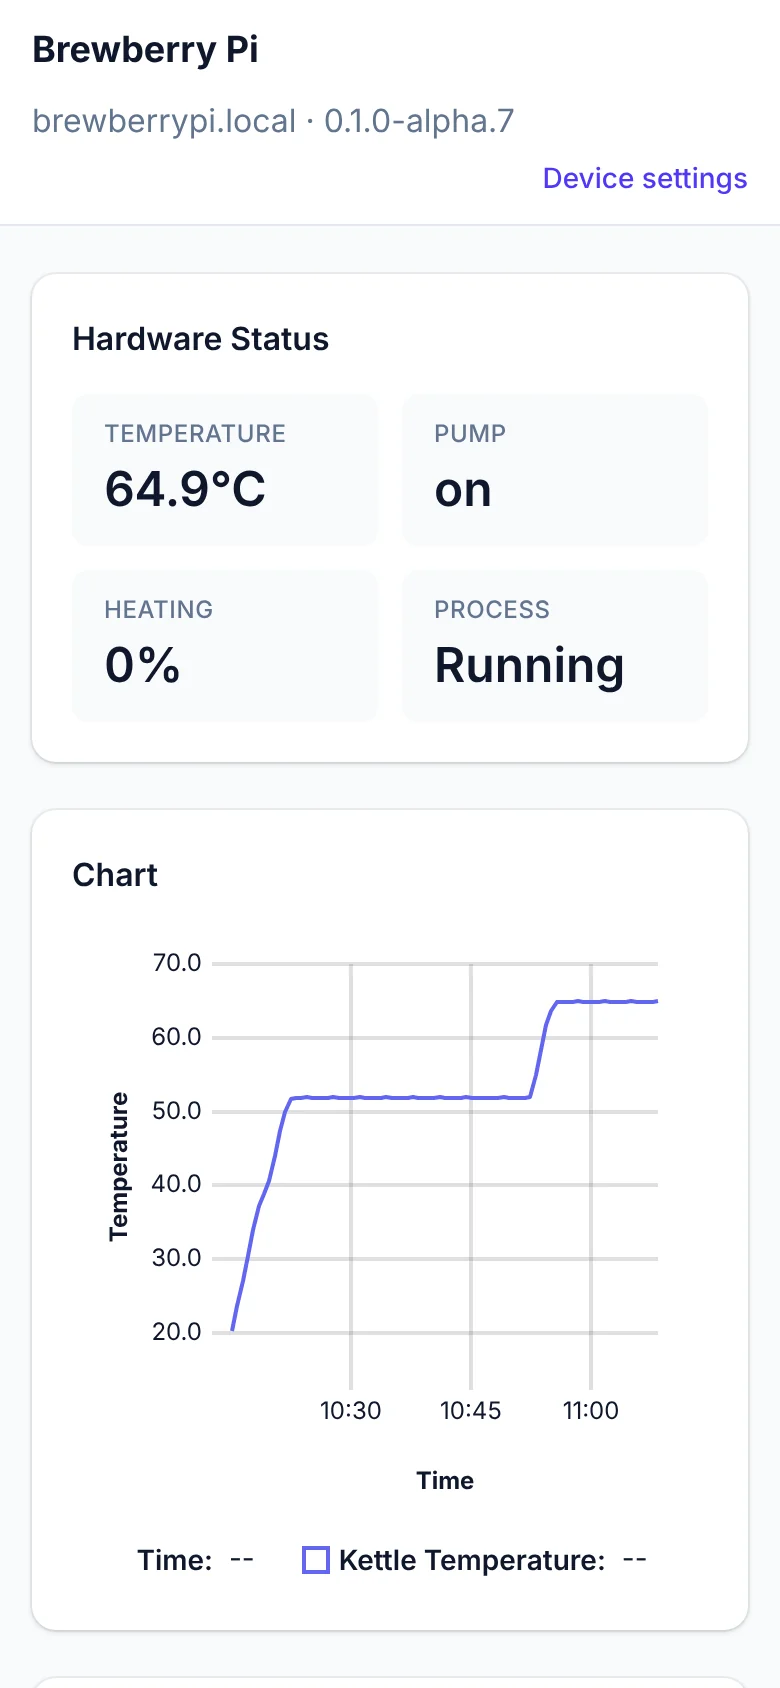
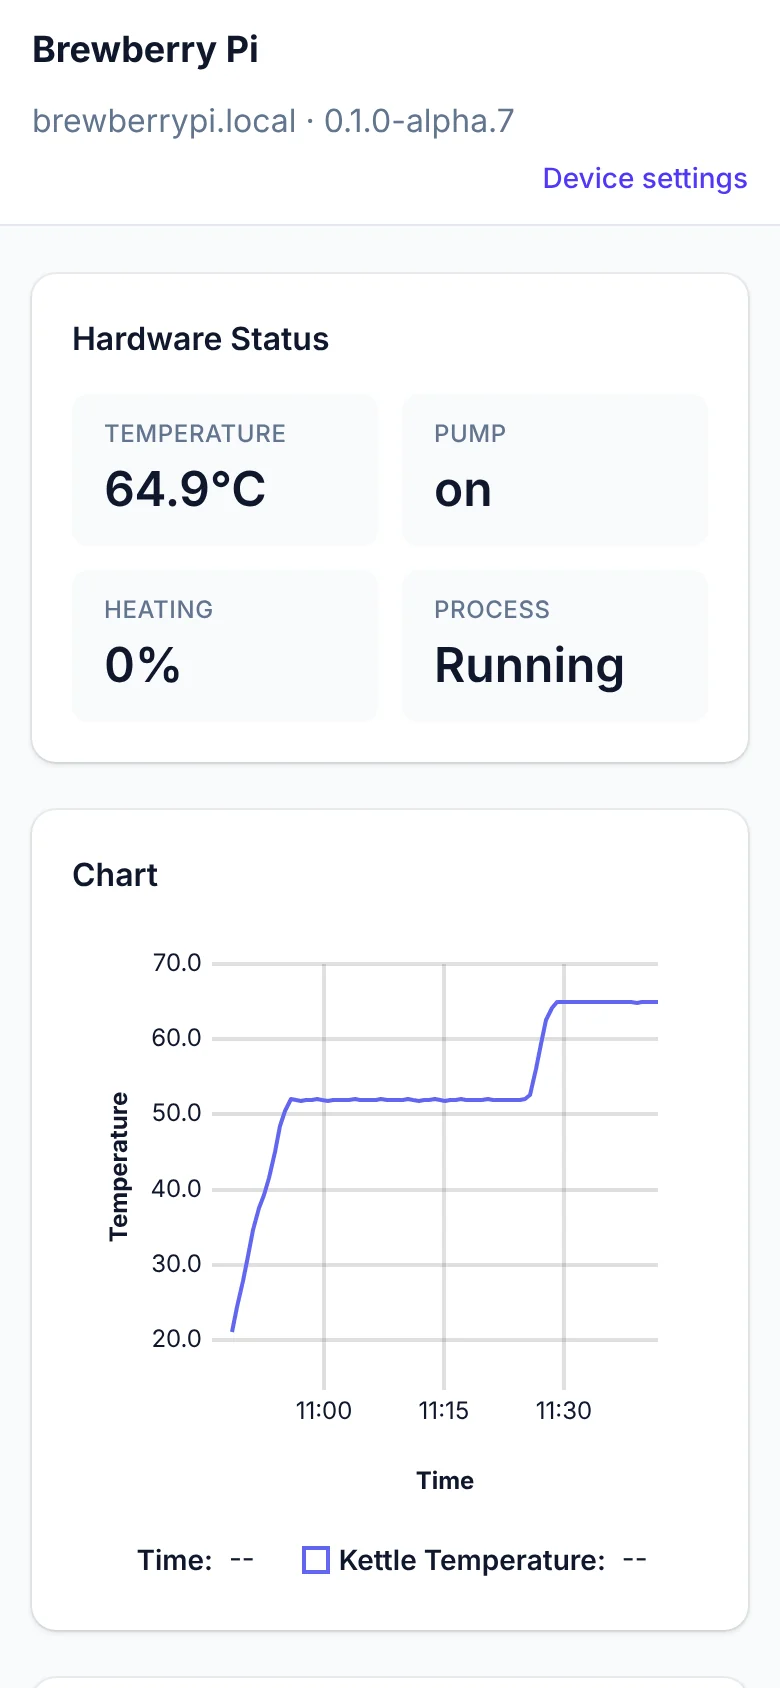
Website: links to the GitHub docs, real screenshots in Mash controlling
Documentation links where they help: each software feature card links to the
relevant spec page or manual section (temperature control, goal types, safety
requirements, recipe format, adding recipes), the OS cards to the flashing
guide and the user manual's Wi-Fi, app version, configuration and overview
sections, the source card to the user manual, app specification and
developer guide; the case page to its specification, print checks and FDM
design rules; the components page to the hardware test protocol.

Mash controlling cards now show real app screenshots: the chart, the iodine
question and the hardware status after a stop (all off). capture_screens.mjs
takes them along with the others.

Claude-Session: https://claude.ai/code/session_01CFGdCWnQRLXmkcSybAmDGC

Changed region(s): [[0.1846, 0.5853, 0.8308, 0.8626]]

diff --git a/site/main.js b/site/main.js
@@ -24,7 +24,7 @@ if (hero) sectionObserver.observe(hero); // no link: clears the highlight at the
 
 // ---------- Features ----------
 // To add a feature, add an entry. group: the section it appears in ("mash" or "recipe"). size: "wide" spans two columns on large screens. art: an optional
-// illustration (see ART). size "full" spans the whole row. soon: the muted "more to come" card.
+// illustration (see ART). size "full" spans the whole row. doc: [link text, URL] to the documentation. soon: the muted "more to come" card.
 
 const ICONS = {
   list: '<path d="M9 6h11M9 12h11M9 18h11"/><circle cx="4.5" cy="6" r="1"/><circle cx="4.5" cy="12" r="1"/><circle cx="4.5" cy="18" r="1"/>',
@@ -38,22 +38,23 @@ const ICONS = {
 const ART = {
   process: '<div class="mini-shot"><img src="img/app-process-light.webp" width="1464" height="1850" loading="lazy" decoding="async" alt="The app working through the step mash BENIWEISS: the done steps, the active rest with its time left, and the steps still to come"></div>',
   json: '<figure class="mini-file"><figcaption>recipes/BENIWEISS.json</figcaption><pre>{\n  <b>"name"</b>: <i>"München 12.6 - SUD2:BENIWEISS"</i>,\n  <b>"goals"</b>: [\n    { <b>"type"</b>: <i>"PourInBrewingWater"</i> },\n    { <b>"type"</b>: <i>"HeatUp"</i>, <b>"temperature"</b>: <u>40</u> },\n    { <b>"type"</b>: <i>"MashIn"</i> },\n    { <b>"type"</b>: <i>"HeatUp"</i>, <b>"temperature"</b>: <u>52</u> },\n    { <b>"type"</b>: <i>"Rest"</i>, <b>"temperature"</b>: <u>52</u>, <b>"minutes"</b>: <u>30</u>,\n      <b>"name"</b>: <i>"Eiweißrast"</i> },\n    <s>…</s>\n    { <b>"type"</b>: <i>"IodineTest"</i>, <b>"temperature"</b>: <u>73</u>, <b>"minutes"</b>: <u>10</u> },\n    { <b>"type"</b>: <i>"HeatUp"</i>, <b>"temperature"</b>: <u>78</u> }\n  ]\n}</pre></figure>',
-  curve: '<svg class="mini-curve" viewBox="0 0 300 90" preserveAspectRatio="none" aria-hidden="true"><path class="target" d="M0 22H300"/><path d="M0 84C50 80 80 50 110 30S150 22 170 22H300"/></svg>',
-  ask: '<div class="mini-ask">Iodine test successfull?<div><span>Yes</span><span>No</span></div></div>',
+  chart: '<div class="mini-shot mini-shot--fit"><img src="img/app-chart-light.webp" width="1464" height="627" loading="lazy" decoding="async" alt="The app’s chart: the kettle temperature since the start, with each ramp and rest of the step mash"></div>',
+  question: '<div class="mini-shot mini-shot--fit"><img src="img/app-question-light.webp" width="1392" height="302" loading="lazy" decoding="async" alt="The app asking: Iodine test successfull? with the answers Yes and No"></div>',
+  stopped: '<div class="mini-shot mini-shot--fit"><img src="img/app-stopped-light.webp" width="1464" height="246" loading="lazy" decoding="async" alt="The app’s hardware status after a stop: pump off, heating 0 %, process stopped"></div>',
 };
 
 const FEATURES = [
-  { group: "mash", icon: "thermo", title: "Temperature control", size: "wide", art: "curve",
+  { group: "mash", icon: "thermo", title: "Temperature control", doc: ["How the control works", "https://github.com/tinkerius/brewberrypi-app/blob/main/docs/specification/05-temperature-control.md"], size: "wide", art: "chart",
     text: "Full power to heat up, half power close to the target, then it holds each rest while the pump keeps the mash moving. A chart shows the kettle temperature since the start, so you see each ramp and rest as it happens." },
-  { group: "mash", icon: "bell", title: "It guides you through the brew", size: "wide", art: "ask",
+  { group: "mash", icon: "bell", title: "It guides you through the brew", doc: ["The steps it knows", "https://github.com/tinkerius/brewberrypi-app/blob/main/docs/specification/04-goal-types.md"], size: "wide", art: "question",
     text: "BrewberryPi heats, holds the rests and runs the pump on its own, and tells you when it's your turn: pour in the water, mash in, do the iodine test. Confirm on any device, and it carries on. A buzzer reminds you until you do." },
-  { group: "mash", icon: "shield", title: "Safe by design", size: "wide",
+  { group: "mash", icon: "shield", title: "Safe by design", doc: ["Safety requirements", "https://github.com/tinkerius/brewberrypi-app/blob/main/docs/specification/10-non-functional-requirements.md"], size: "wide", art: "stopped",
     text: "The heater is off whenever it isn't actively controlling temperature. All outputs go off at start-up and on every stop, crash or hang, backed by the systemd and hardware watchdogs." },
   { group: "mash", icon: "spark", title: "More to come", size: "wide", soon: true,
     text: "The feature list grows with the project. Have an idea? Open an issue on GitHub." },
-  { group: "recipe", icon: "list", title: "Mashing process as step lists", size: "wide", art: "process",
+  { group: "recipe", icon: "list", title: "Mashing process as step lists", doc: ["Recipe format", "https://github.com/tinkerius/brewberrypi-app/blob/main/docs/specification/07-recipes.md"], size: "wide", art: "process",
     text: "Write your mash schedule once as a list of steps: the target temperature of each heat-up, the temperature and minutes of each rest, the extra minutes after an iodine test that isn't done yet, and the boil time. Give your rests their own names. BrewberryPi works through it step by step, like this step mash for a wheat beer." },
-  { group: "recipe", icon: "file", title: "Easy mash process creation", size: "wide", art: "json",
+  { group: "recipe", icon: "file", title: "Easy mash process creation", doc: ["Adding recipes", "https://github.com/tinkerius/brewberrypi-os/blob/main/docs/user-manual.md#in-the-file-share"], size: "wide", art: "json",
     text: "A recipe is a small JSON file: list the steps with their temperatures and minutes. Drop it into the recipes folder on the Pi's network share, and it shows up in the app within seconds." },
 ];
 
@@ -67,9 +68,15 @@ function renderFeatures() {
       card.className = `feature card reveal${f.size ? ` feature--${f.size}` : ""}${f.soon ? " feature--soon" : ""}`;
       card.style.setProperty("--d", `${(i % 4) * 0.06}s`);
       card.innerHTML = `<span class="feature__icon"><svg viewBox="0 0 24 24" aria-hidden="true">${ICONS[f.icon]}</svg></span>
-        <h3></h3><p></p>${f.art ? `<div class="feature__art">${ART[f.art]}</div>` : ""}`;
+        <h3></h3><p></p>${f.art ? `<div class="feature__art">${ART[f.art]}</div>` : ""}${f.doc ? '<a class="link feature__doc"></a>' : ""}`;
       card.querySelector("h3").textContent = f.title;
       card.querySelector("p").textContent = f.text;
+      if (f.doc) {
+        const link = card.querySelector(".feature__doc");
+        link.href = f.doc[1];
+        link.innerHTML = '<span></span> <span aria-hidden="true">→</span>';
+        link.firstChild.textContent = f.doc[0];
+      }
       grid.append(card);
     });
   }

diff --git a/site/software.html b/site/software.html
@@ -131,11 +131,11 @@
         <div class="software-facts">
           <div class="software-fact card reveal">
             <span class="feature__icon"><svg viewBox="0 0 24 24" aria-hidden="true"><path d="M4 6.5h16v11H4z"/><path d="M8 3.5v3M16 3.5v3M8 12h8"/></svg></span>
-            <div><h3>Flash and brew</h3><p>Write the image with Raspberry Pi Imager. The app starts on its own at every boot.</p></div>
+            <div><h3>Flash and brew</h3><p>Write the image with Raspberry Pi Imager. The app starts on its own at every boot.</p><a class="link fact__doc" href="https://github.com/tinkerius/brewberrypi-os/blob/main/docs/flashing.md">Flashing guide <span aria-hidden="true">→</span></a></div>
           </div>
           <div class="software-fact card reveal">
             <span class="feature__icon"><svg viewBox="0 0 24 24" aria-hidden="true"><path d="M2.5 9a14 14 0 0 1 19 0M5.8 12.6a9 9 0 0 1 12.4 0M9.2 16.1a4 4 0 0 1 5.6 0"/><circle cx="12" cy="19.3" r=".9"/></svg></span>
-            <div><h3>Wi-Fi hotspot</h3><p>No home network found? The Pi opens its own hotspot, and your phone lands on the Wi-Fi setup page.</p></div>
+            <div><h3>Wi-Fi hotspot</h3><p>No home network found? The Pi opens its own hotspot, and your phone lands on the Wi-Fi setup page.</p><a class="link fact__doc" href="https://github.com/tinkerius/brewberrypi-os/blob/main/docs/user-manual.md#wi-fi">Wi-Fi setup <span aria-hidden="true">→</span></a></div>
           </div>
           <div class="software-fact card reveal">
             <span class="feature__icon"><svg viewBox="0 0 24 24" aria-hidden="true"><rect x="2.5" y="4.5" width="13" height="9" rx="1.5"/><path d="M6 17.5h6M9 13.5v4"/><rect x="17.5" y="8.5" width="4" height="11" rx="1"/></svg></span>
@@ -143,19 +143,19 @@
           </div>
           <div class="software-fact card reveal">
             <span class="feature__icon"><svg viewBox="0 0 24 24" aria-hidden="true"><path d="M20 11a8 8 0 0 0-14.6-4.5M4 13a8 8 0 0 0 14.6 4.5"/><path d="M5 3v4h4M19 21v-4h-4"/></svg></span>
-            <div><h3>Updates from the browser</h3><p>New versions install from the device page. They are signature-checked, and the previous one stays for rollback.</p></div>
+            <div><h3>Updates from the browser</h3><p>New versions install from the device page. They are signature-checked, and the previous one stays for rollback.</p><a class="link fact__doc" href="https://github.com/tinkerius/brewberrypi-os/blob/main/docs/user-manual.md#6-app-versions">App versions and updates <span aria-hidden="true">→</span></a></div>
           </div>
           <div class="software-fact card reveal">
             <span class="feature__icon"><svg viewBox="0 0 24 24" aria-hidden="true"><path d="M4 6h9M17 6h3M4 12h3M11 12h9M4 18h11M19 18h1"/><circle cx="15" cy="6" r="2"/><circle cx="9" cy="12" r="2"/><circle cx="17" cy="18" r="2"/></svg></span>
-            <div><h3>Settings in the browser</h3><p>Device settings on their own page, and the config folder as a network share you open from your computer.</p></div>
+            <div><h3>Settings in the browser</h3><p>Device settings on their own page, and the config folder as a network share you open from your computer.</p><a class="link fact__doc" href="https://github.com/tinkerius/brewberrypi-os/blob/main/docs/user-manual.md#5-configuration">Configuration <span aria-hidden="true">→</span></a></div>
           </div>
           <div class="software-fact card reveal">
             <span class="feature__icon"><svg viewBox="0 0 24 24" aria-hidden="true"><path d="M7 11V8a5 5 0 0 1 10 0v3"/><rect x="5" y="11" width="14" height="10" rx="2"/></svg></span>
-            <div><h3>Survives power cuts</h3><p>The system is read-only; settings and app versions live on their own data partition.</p></div>
+            <div><h3>Survives power cuts</h3><p>The system is read-only; settings and app versions live on their own data partition.</p><a class="link fact__doc" href="https://github.com/tinkerius/brewberrypi-os/blob/main/docs/user-manual.md#1-how-it-works">How the OS works <span aria-hidden="true">→</span></a></div>
           </div>
           <div class="software-fact software-fact--full card reveal">
             <span class="feature__icon"><svg viewBox="0 0 24 24" aria-hidden="true"><path d="m8 8-4 4 4 4M16 8l4 4-4 4M13.5 5l-3 14"/></svg></span>
-            <div><h3>Source code</h3><p><a class="link" href="https://github.com/tinkerius/brewberrypi-app">App</a> and <a class="link" href="https://github.com/tinkerius/brewberrypi-os">operating system</a> on GitHub.</p></div>
+            <div><h3>Source code and documentation</h3><p><a class="link" href="https://github.com/tinkerius/brewberrypi-app">App</a> and <a class="link" href="https://github.com/tinkerius/brewberrypi-os">operating system</a> on GitHub, with the <a class="link" href="https://github.com/tinkerius/brewberrypi-os/blob/main/docs/user-manual.md">user manual</a>, the <a class="link" href="https://github.com/tinkerius/brewberrypi-app/blob/main/docs/specification/00-index.md">app specification</a> and the <a class="link" href="https://github.com/tinkerius/brewberrypi-os/blob/main/docs/development.md">developer guide</a>.</p></div>
           </div>
         </div>
       </div>

diff --git a/site/styles.css b/site/styles.css
@@ -233,6 +233,10 @@ main { counter-reset: section; }
 .feature h3 { margin-top: .3rem; font-size: 1.3rem; }
 .feature p { color: var(--muted); font-size: .94rem; }
 .feature__art { margin-top: auto; padding-top: .8rem; }
+.feature__doc { align-self: flex-start; margin-top: .9rem; font-size: .88rem; }
+.feature__art + .feature__doc { margin-top: 1rem; }
+.feature:not(:has(.feature__art)) .feature__doc { margin-top: auto; padding-top: .6rem; }
+.fact__doc { display: inline-flex; margin-top: .45rem; font-size: .86rem; }
 .feature--soon { background: var(--bg); }
 .feature--soon h3 { color: var(--muted); }
 .feature-list { columns: 2; color: var(--muted); }
@@ -241,6 +245,9 @@ main { counter-reset: section; }
 .mini-shot { position: relative; height: 260px; overflow: hidden; border: 1px solid var(--line); border-radius: 8px; background: #fff; }
 .mini-shot img { display: block; width: 100%; height: 100%; object-fit: cover; object-position: 50% 42%; }
 .mini-shot::after { content: ""; position: absolute; inset: auto 0 0; height: 48px; background: linear-gradient(transparent, #fff); }
+.mini-shot--fit { height: auto; }
+.mini-shot--fit img { height: auto; }
+.mini-shot--fit::after { display: none; }
 /* A recipe file, shown like a code editor. */
 .mini-file { margin: 0; overflow: hidden; border-radius: 8px; background: #1c1719; color: #f1e8eb; }
 .mini-file figcaption { padding: .45rem .8rem; border-bottom: 1px solid rgba(241, 232, 235, .12); font: .72rem var(--font-mono); color: #a8979e; }
@@ -254,13 +261,6 @@ main { counter-reset: section; }
 .mini-steps .h { --c: var(--brass); }
 .mini-steps .r { --c: var(--pink); }
 .mini-steps .y { --c: var(--leaf); }
-.mini-curve { width: 100%; height: 86px; }
-.mini-curve path { fill: none; stroke: var(--fg); stroke-width: 2; vector-effect: non-scaling-stroke; stroke-linecap: round; }
-.mini-curve .target { stroke: var(--pink); stroke-dasharray: 4 5; stroke-width: 1.5; }
-.mini-ask { display: grid; gap: .55rem; padding: .85rem; border: 1px solid var(--line); border-radius: 6px; background: var(--bg); font-weight: 600; font-size: .9rem; }
-.mini-ask div { display: flex; gap: .45rem; }
-.mini-ask span { padding: .3rem .9rem; border-radius: 4px; background: var(--pink); color: var(--on-pink); font-size: .84rem; }
-.mini-ask span + span { background: var(--surface); border: 1px solid var(--line-2); }
 
 /* ---------- Sub page header ---------- */
 

diff --git a/site/case.html b/site/case.html
@@ -81,7 +81,9 @@
             </p>
             <p class="step__links">
               <a class="link" href="https://github.com/tinkerius/brewberrypi-case/tree/main/04-stl">STL files <span aria-hidden="true">→</span></a>
-              <a class="link" href="https://github.com/tinkerius/brewberrypi-case">Source and spec <span aria-hidden="true">→</span></a>
+              <a class="link" href="https://github.com/tinkerius/brewberrypi-case/blob/main/02-specification/spec.md">Specification <span aria-hidden="true">→</span></a>
+              <a class="link" href="https://github.com/tinkerius/brewberrypi-case/blob/main/04-stl/README.md">Print checks <span aria-hidden="true">→</span></a>
+              <a class="link" href="https://github.com/tinkerius/brewberrypi-case">Source <span aria-hidden="true">→</span></a>
             </p>
           </div>
         </article>
@@ -138,6 +140,9 @@
           </div>
         </div>
         <p class="status reveal"><span class="led led--on"></span>Status: the model is done and checked; the first test print is still open.</p>
+        <p class="system__more reveal">How the model stays printable on any FDM printer:
+          <a class="link" href="https://github.com/tinkerius/brewberrypi-case/blob/main/docs/fdm-design-rules.md">FDM design rules <span aria-hidden="true">→</span></a>
+        </p>
       </div>
     </section>
 

diff --git a/site/components.html b/site/components.html
@@ -192,6 +192,8 @@
         </figure>
         <p class="system__more reveal">Pins, wiring and the full parts list:
           <a class="link" href="https://github.com/tinkerius/brewberrypi-app/blob/main/docs/hardware/wiring.md">Wiring guide <span aria-hidden="true">→</span></a>
+          · Checks before the first brew:
+          <a class="link" href="https://github.com/tinkerius/brewberrypi-app/blob/main/docs/deployment/hardware-test-protocol.md">Hardware test protocol <span aria-hidden="true">→</span></a>
         </p>
         <p class="warning reveal">
           <svg viewBox="0 0 24 24" aria-hidden="true"><path d="M12 3 2 21h20L12 3Z"/><path d="M12 10v5M12 18v.01"/></svg>
